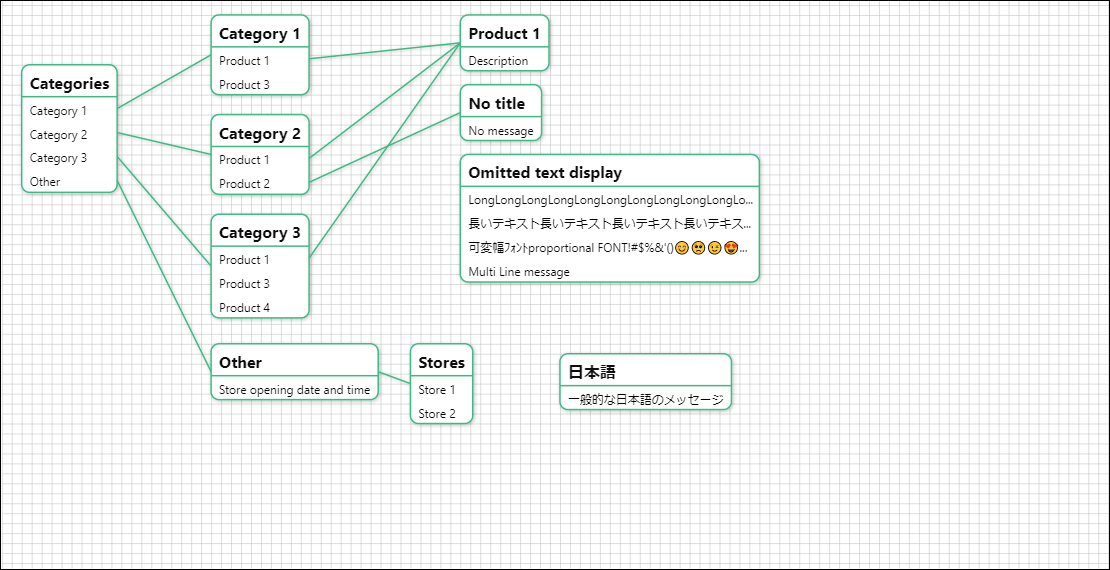
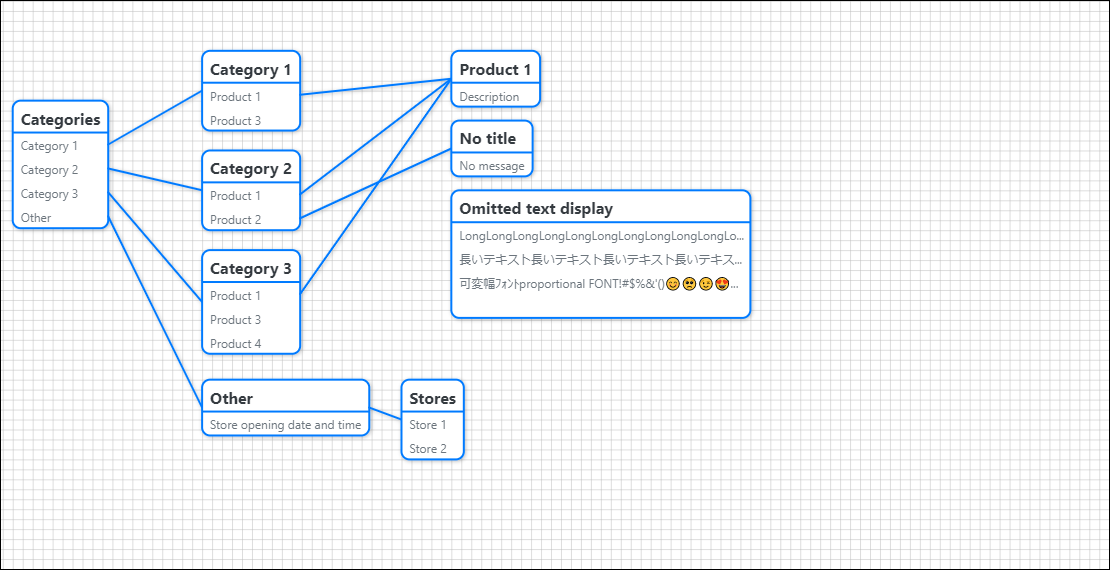
grid, filter slot support

diff --git a/src/vue-flowchart.vue b/src/vue-flowchart.vue
@@ -14,7 +14,12 @@
       @touchend.stop.prevent="(e) => handleTouchEnd(e, null)"
       @mouseup.stop.prevent="(e) => handleMouseUp(e, null)"
     >
-      <slot name="grid" v-if="option_enable_grid" :options="options">
+      <slot
+        name="grid"
+        v-if="option_enable_grid"
+        :options="options"
+        :gridScale="gridScale"
+      >
         <defs>
           <pattern
             id="grid"
@@ -31,17 +36,17 @@
             />
           </pattern>
         </defs>
-        <g class="grid" :transform="gridTransform">
-          <rect
-            class="vue-flowchart-svg-grid"
-            fill="url(#grid)"
-            x="0"
-            y="0"
-            :width="gridArea.w"
-            :height="gridArea.h"
-          />
-        </g>
       </slot>
+      <g class="grid" :transform="gridTransform">
+        <rect
+          class="vue-flowchart-svg-grid"
+          fill="url(#grid)"
+          x="0"
+          y="0"
+          :width="gridArea.w"
+          :height="gridArea.h"
+        />
+      </g>
       <g
         class="vue-flowchart-svg-nodes"
         :filter="option_enable_filter ? 'url(#filter)' : 'none'"

diff --git a/README.md b/README.md
@@ -141,14 +141,48 @@ ID array of the selected node.
 ## grid
 Custom grids can be added.
 If enable_grid is disabled, it is not visible.
+The ID of the pattern element must be specified as "grid".
 
 ### Example
+Dotted Grid.
+```
+<VueFlowchart>
+  <template v-slot:grid="{ options, gridScale }">
+    <defs>
+      <pattern
+        id="grid"
+        x="0"
+        y="0"
+        :width="gridScale.x"
+        :height="gridScale.y"
+      >
+        <circle cx="0" cy="0" r="1" :stroke="options.canvas.grid_color" />
+      </pattern>
+    </defs>
+  </template>
+</VueFlowchart>
+```
+<img src="./docs/grid_demo.png" width="50%">
 
 ## filter
 Allows you to add a custom filter.
 Not visible if enable_filter is disabled.
+The ID of the pattern element must be specified as "filter".
 
 ### Example
+An embossable filter sample.
+```
+<VueFlowchart>
+  <template v-slot:filter">
+    <defs>
+      <filter id="filter">
+        <feConvolveMatrix order="3 3" kernelMatrix="3 0 0 0 1 0 0 0 -3" />
+      </filter>
+    </defs>
+  </template>
+</VueFlowchart>
+```
+<img src="./docs/filter_demo.png" width="50%">
 
 
 # Change Log
